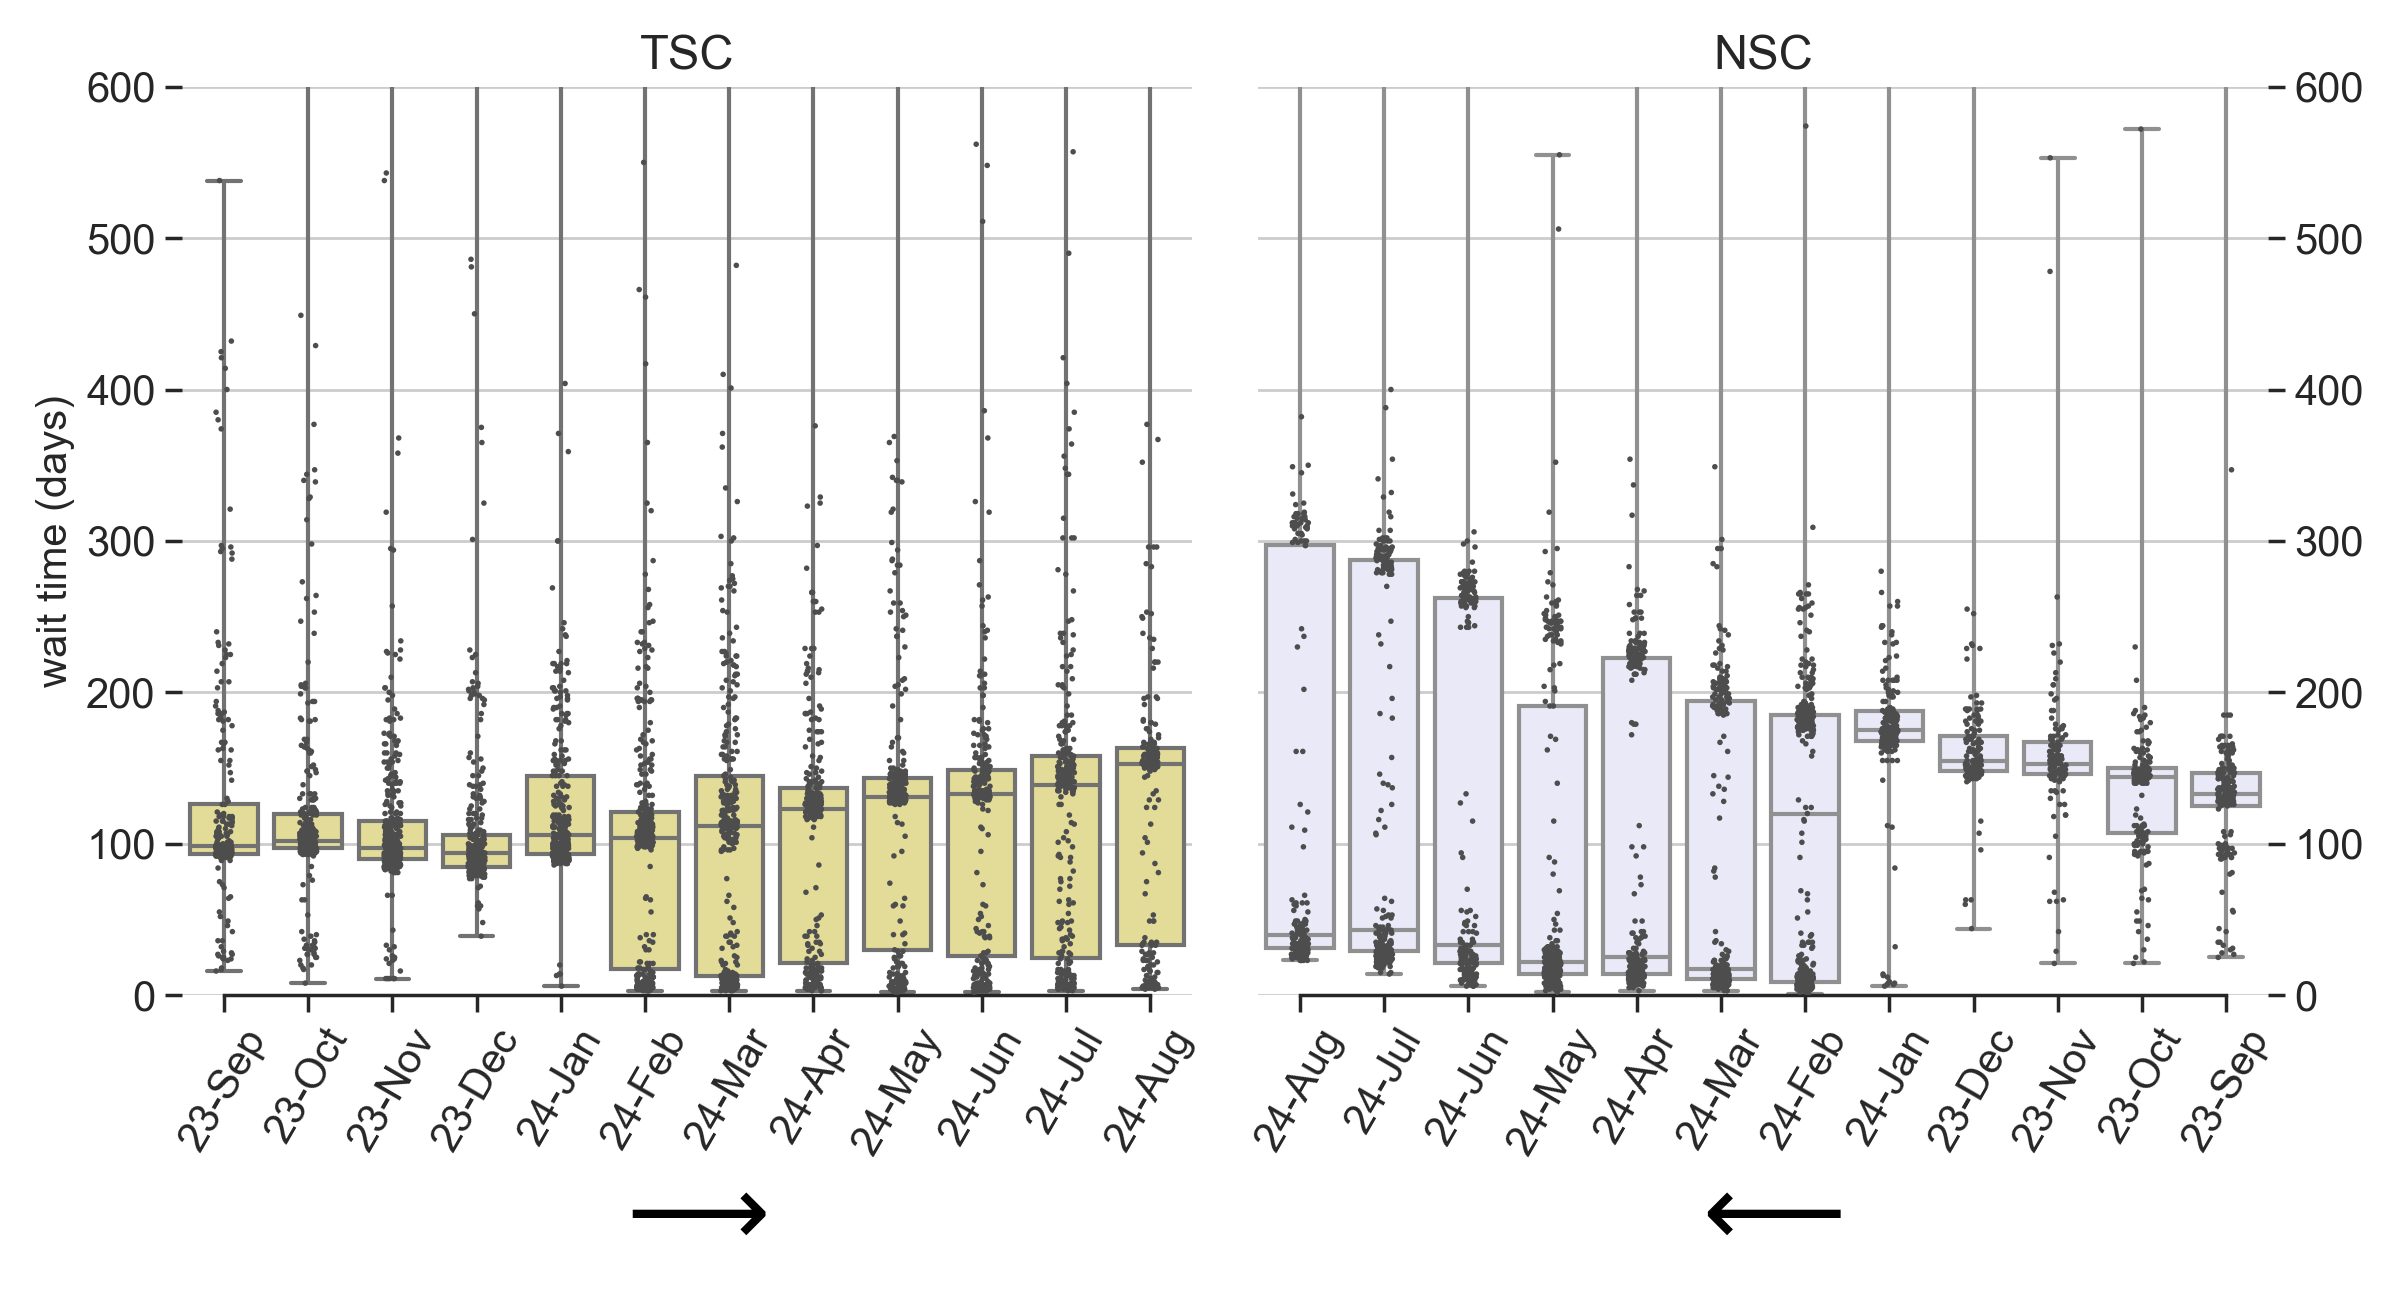
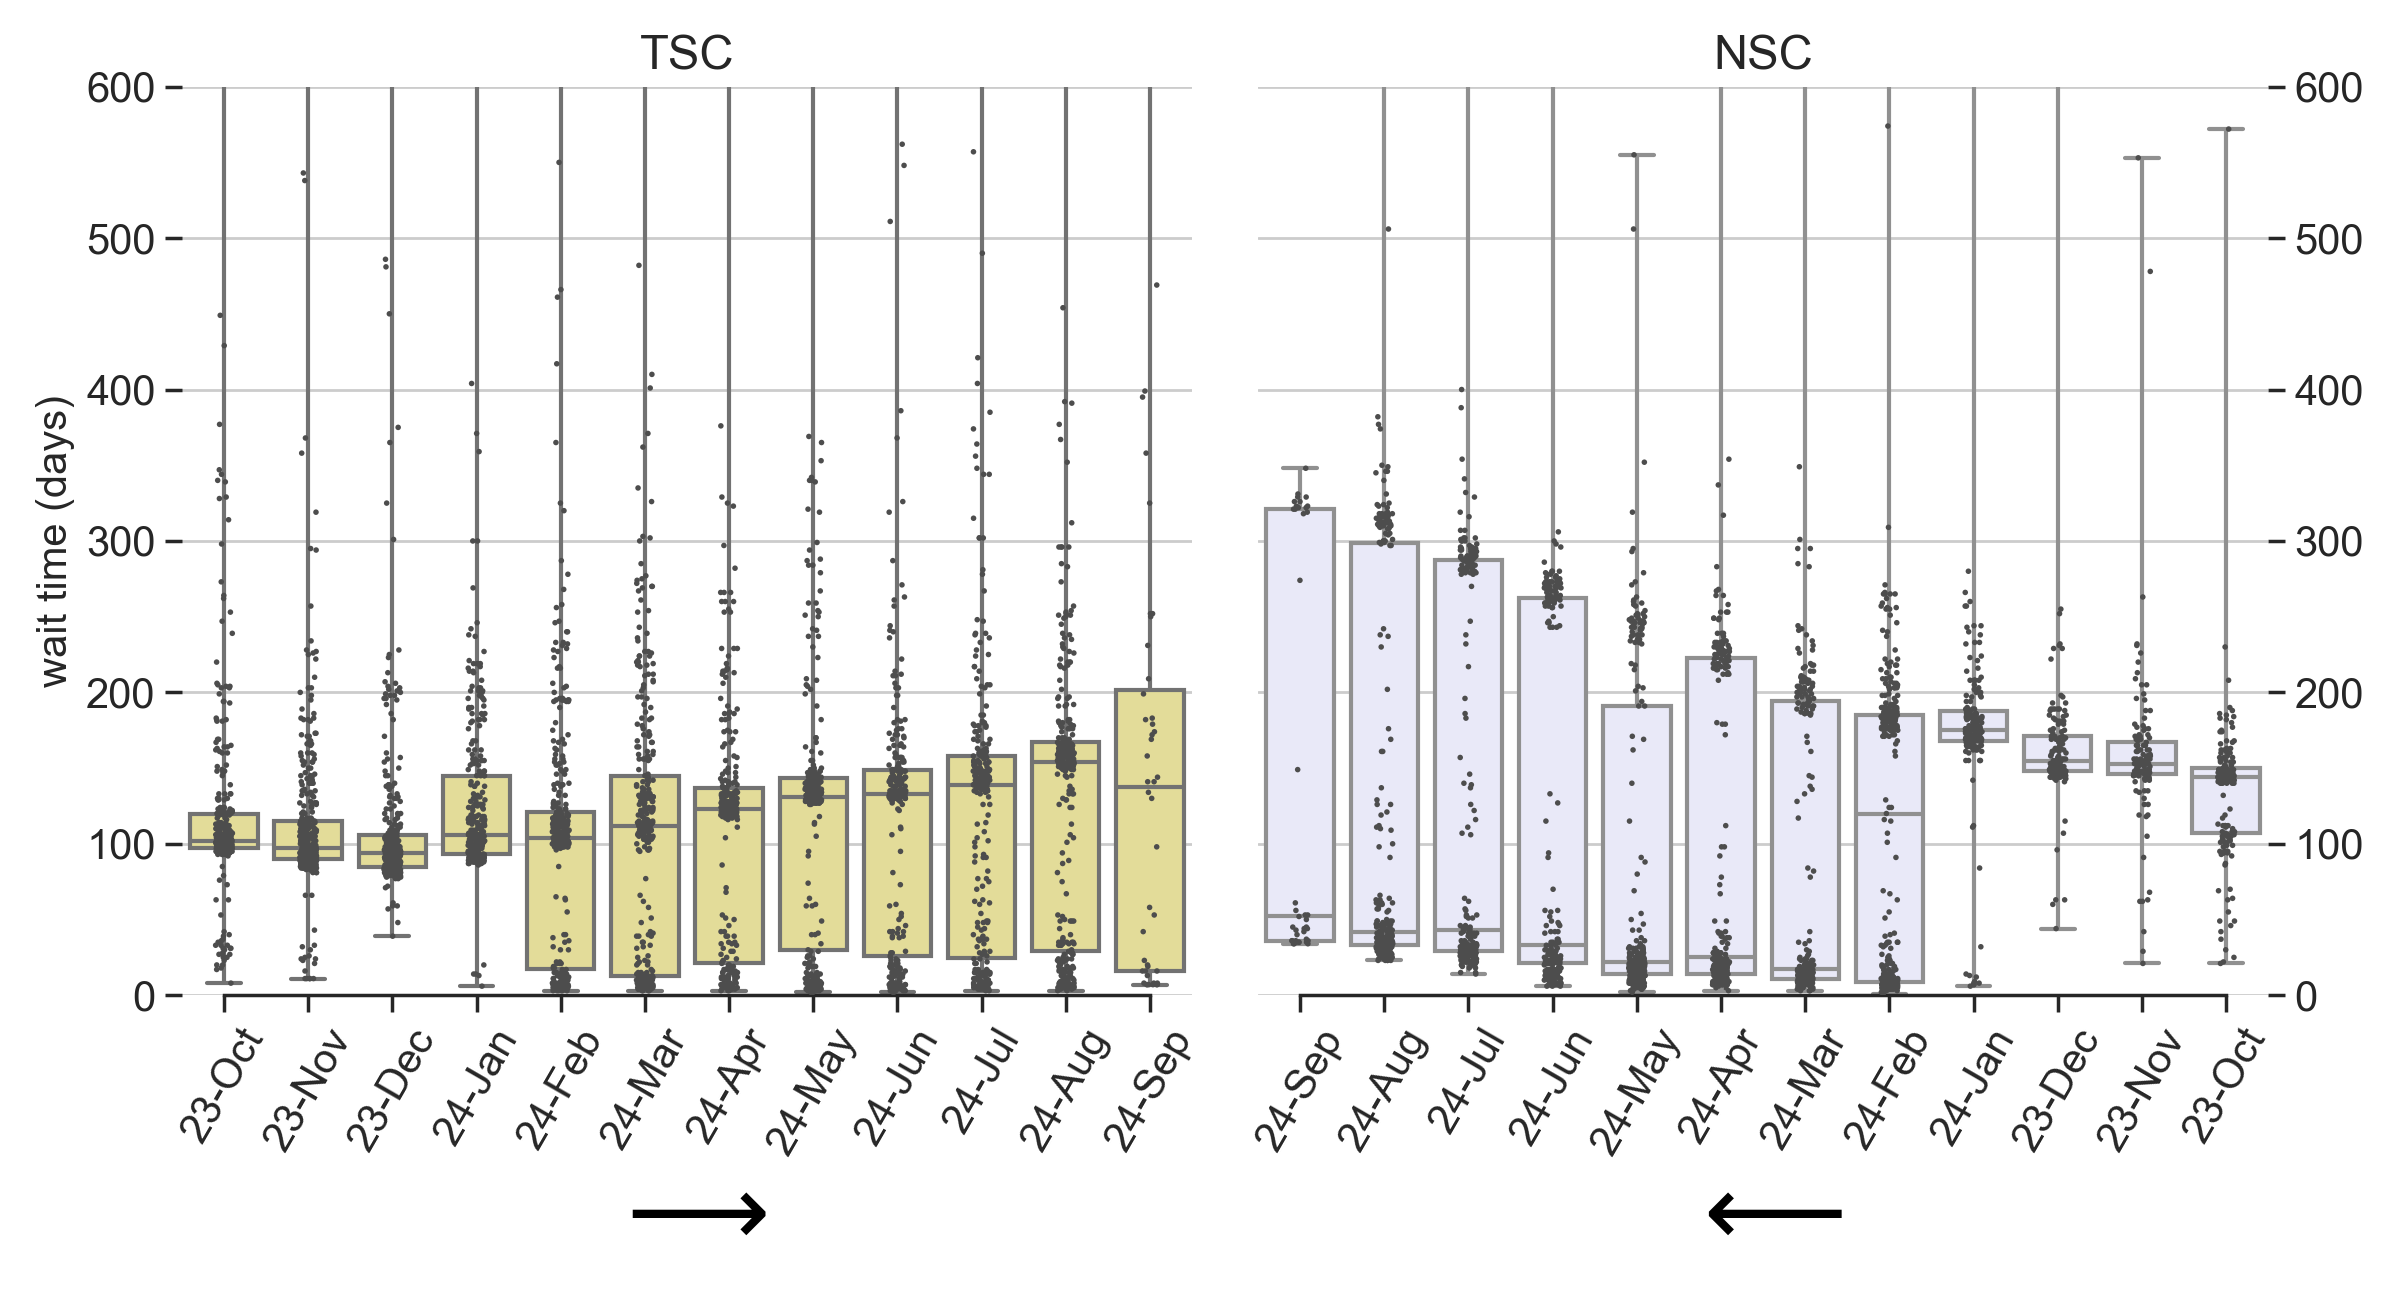
Oct-22 update

diff --git a/README.md b/README.md
@@ -1,4 +1,4 @@
-## National Interest Waiver Wait Time, updated Oct-14-2024 
+## National Interest Waiver Wait Time, updated Oct-22-2024 
 * sec203(b)(2), Indiv w/Adv Deg or Exceptional Ability in National Interest are counted as NIW cases from now on. 
  
 USCIS Employment-based-2 NIW I-140 wait time before approval (data source: [Victoria Chen](https://www.wegreened.com/eb1_niw_approvals)). 
